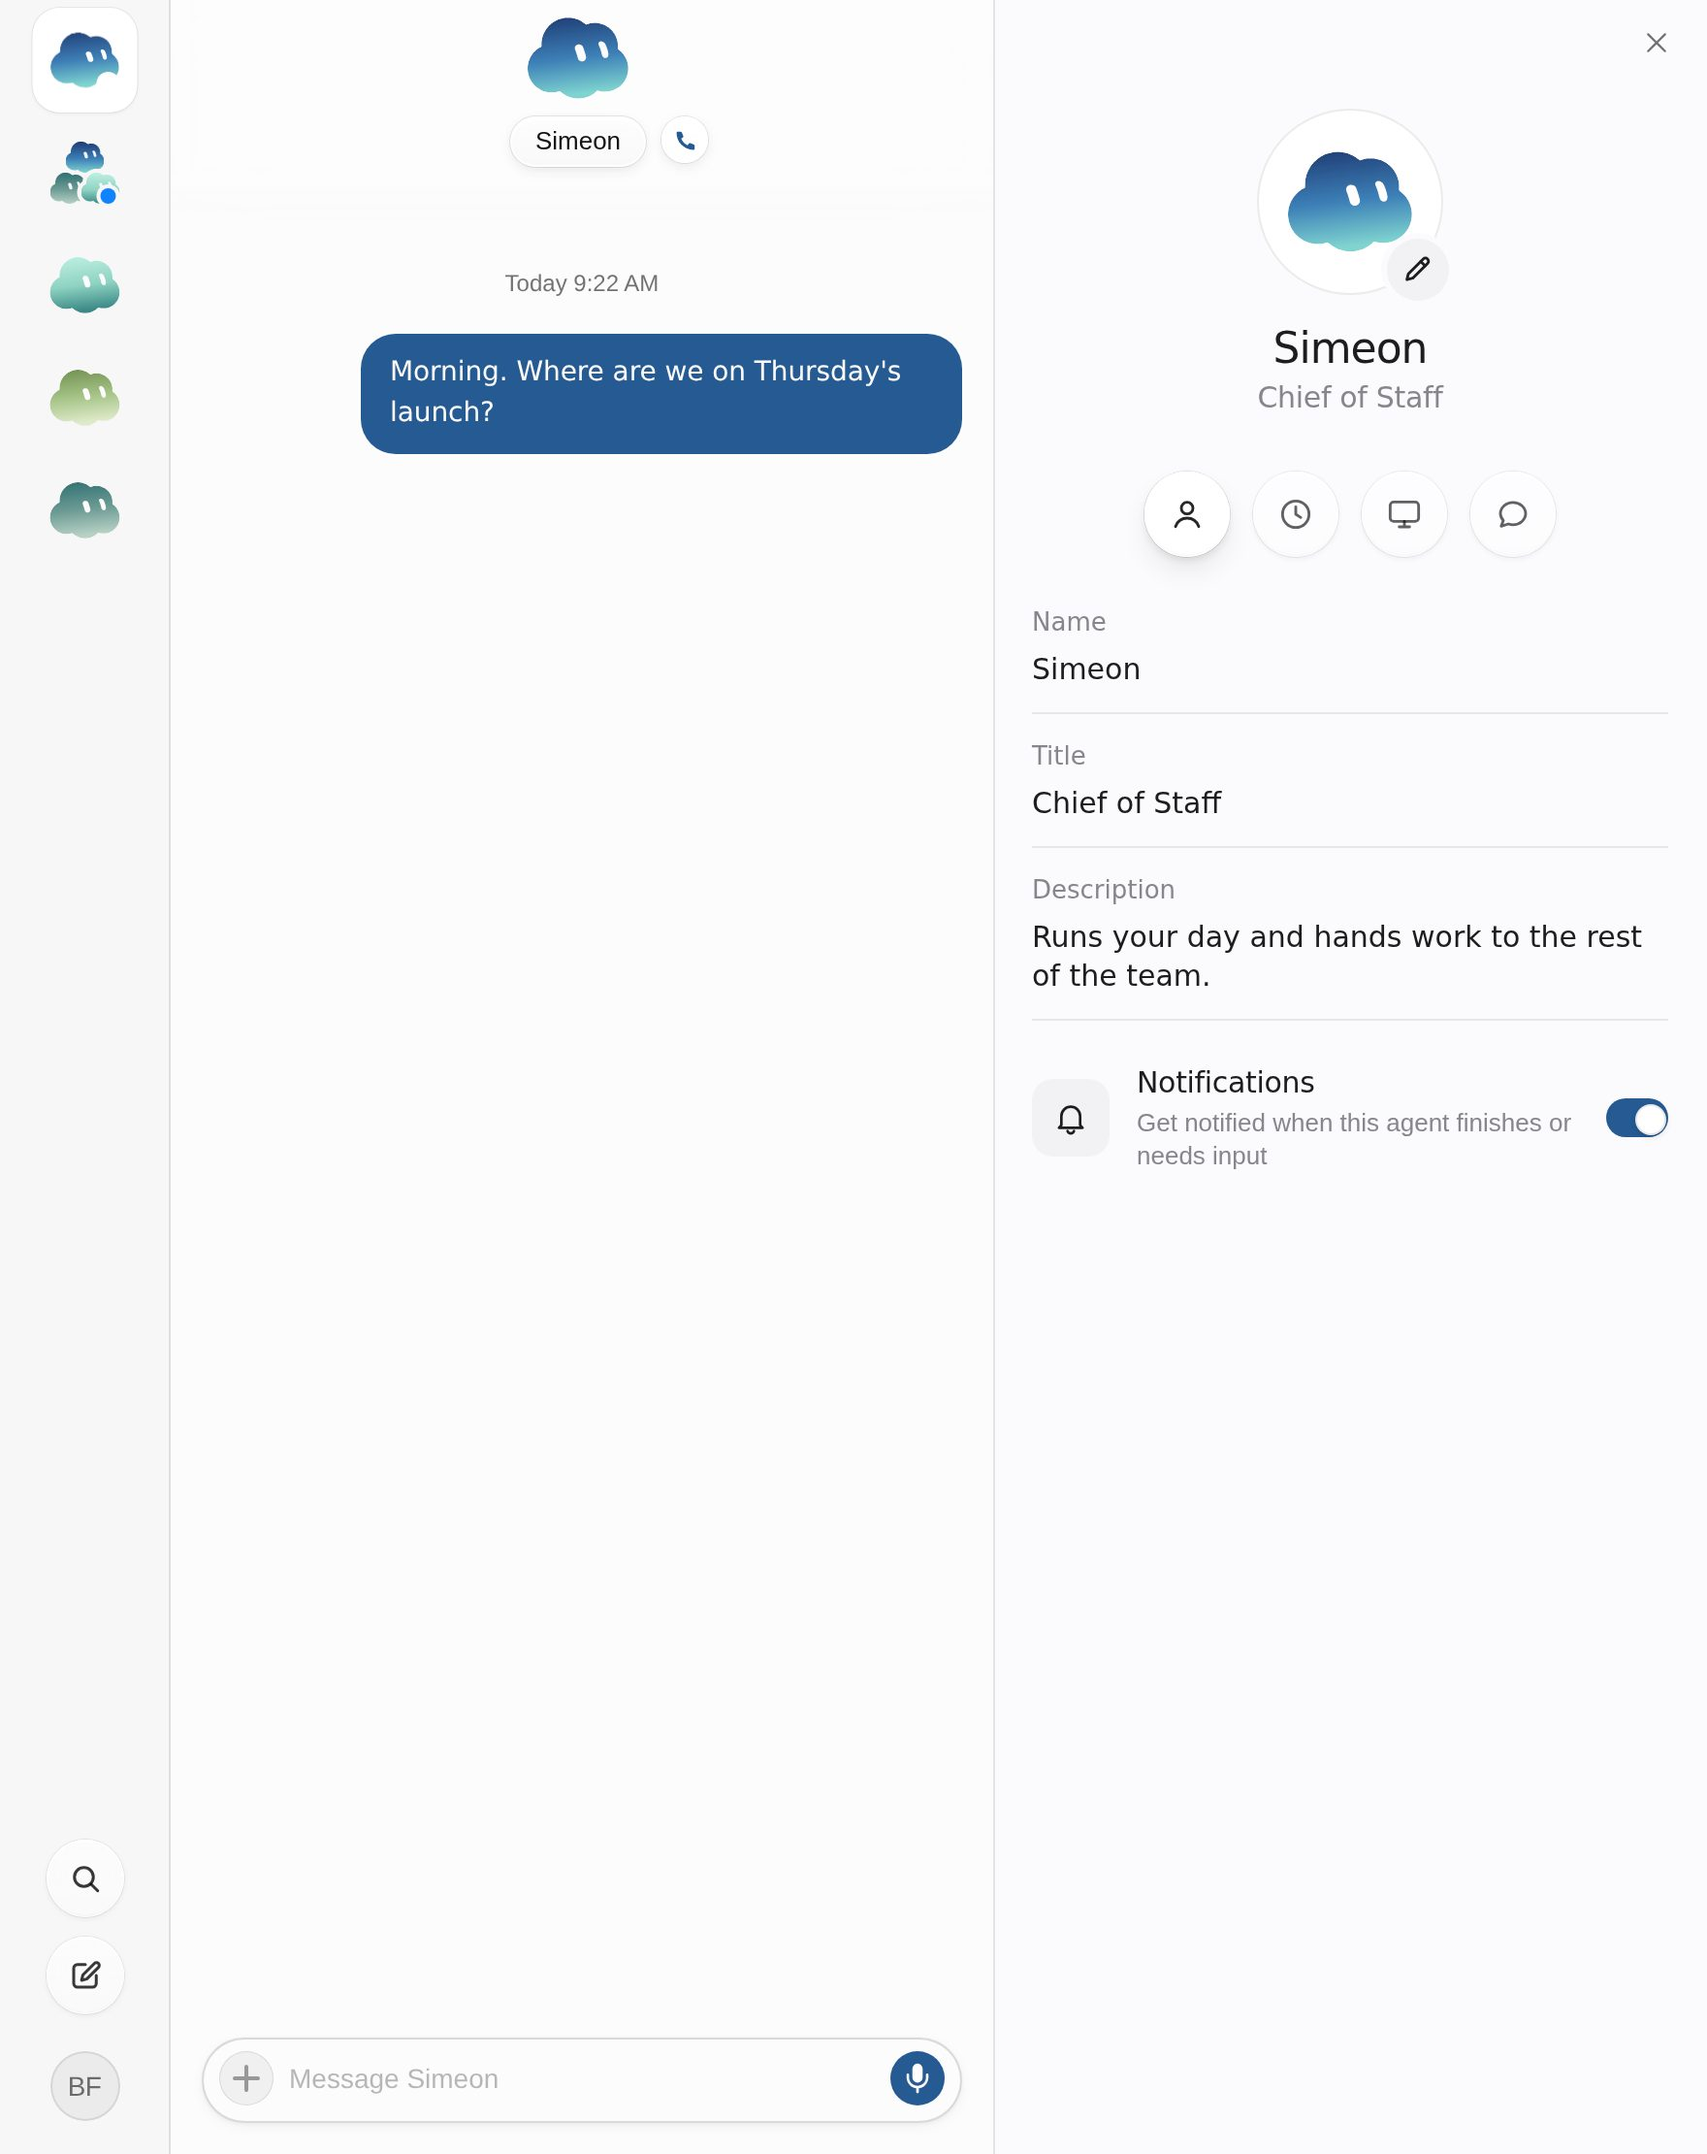
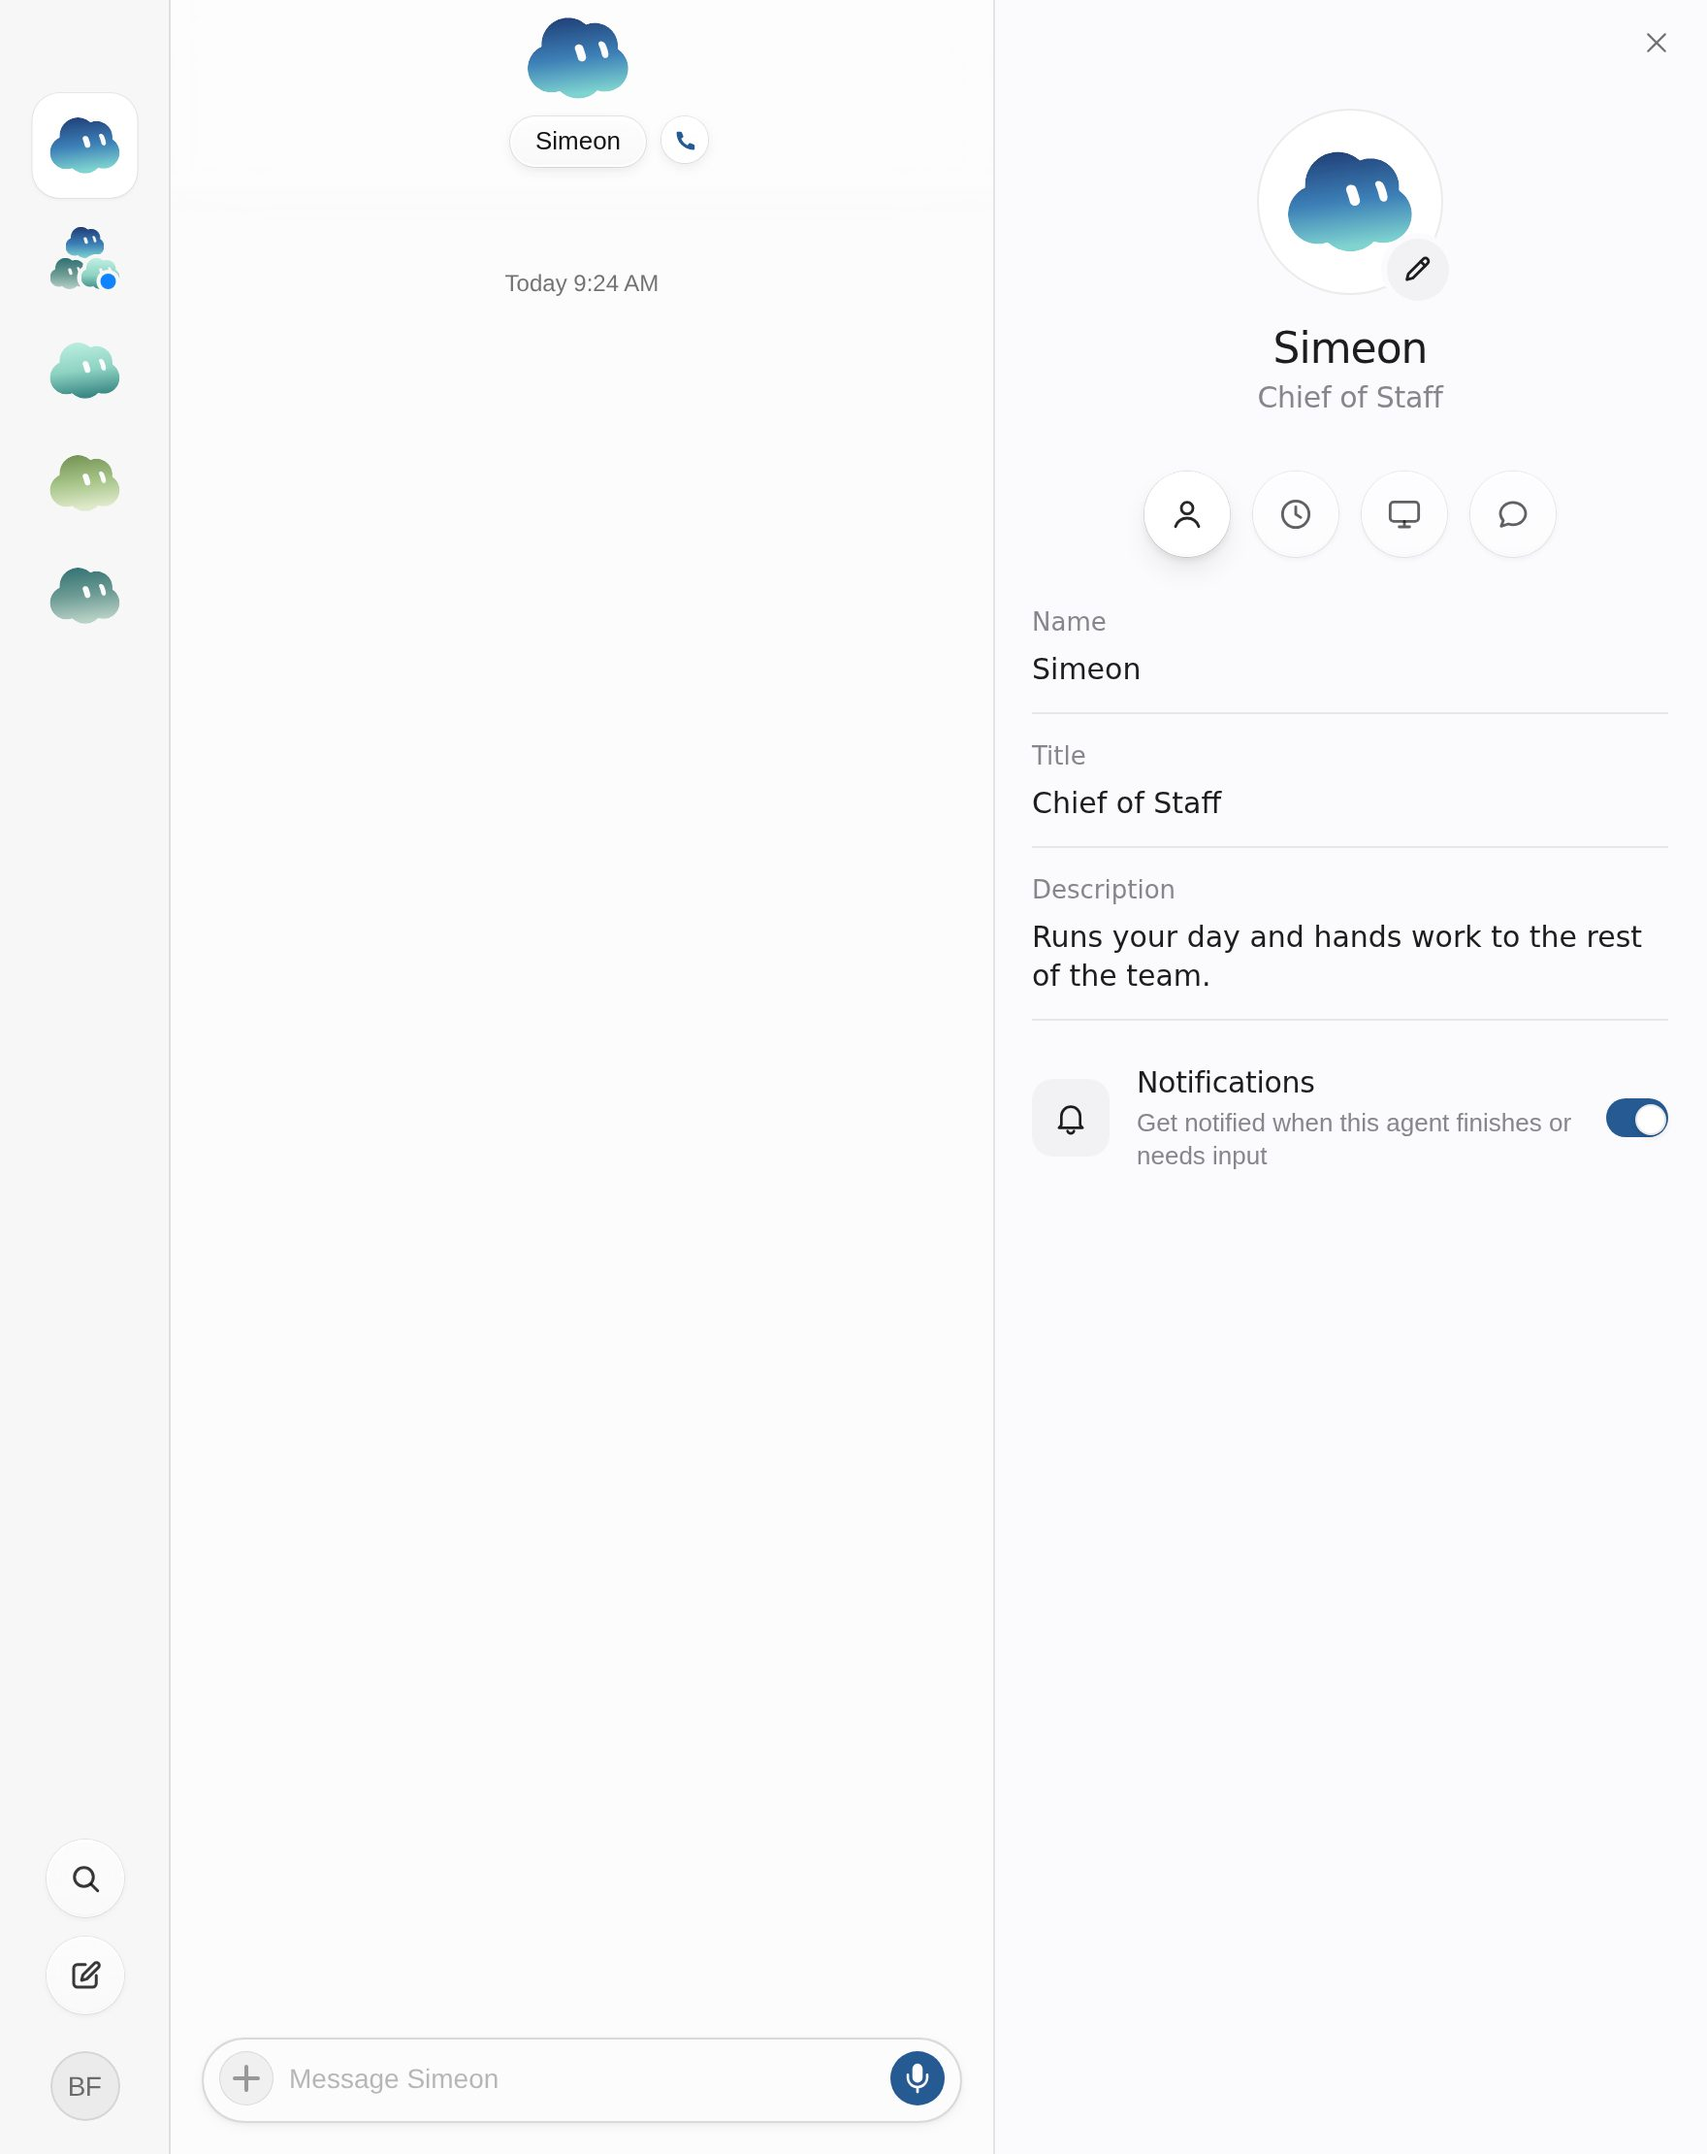
Site demo: with the pane open, the rail keeps its spacer under the traffic lights
Moving the rail's header to the foot had taken away the 44px it left
clear at the top, so the first avatar sat under the window's traffic
lights. The spacer is back; the hero posters are regenerated.

Claude-Session: https://claude.ai/code/session_01YVdXyUP5gsDTr44eH5Vte9

Changed region(s): [[0.1875, 0.1554, 0.5625, 0.2176], [0.0312, 0.0, 0.0938, 0.3108]]

diff --git a/sites/simeonlabs.com/public/app/c240c441e36a/demo-glass.css b/sites/simeonlabs.com/public/app/c240c441e36a/demo-glass.css
@@ -41,3 +41,5 @@ html body .sand-shell:has(.sand-info-pane[data-open="true"]) .sand-agents-sideba
 html body .sand-shell:has(.sand-info-pane[data-open="true"]) .sand-agents-sidebar__new-actions{flex-direction:column!important;gap:10px!important;margin:0 auto!important}
 /* The rail renders a second "New chat" plus of its own; the compose disc already is that button. */
 html body .sand-agents-sidebar__rail-new{display:none!important}
+/* The rail's header was its 44px spacer under the traffic lights; with the header at the foot, the spacer stays. */
+html body .sand-shell:has(.sand-info-pane[data-open="true"]) .sand-agents-sidebar::before{content:""!important;display:block!important;flex:none!important;order:0!important;height:44px!important}

diff --git a/sites/simeonlabs.com/source/demo-glass.css b/sites/simeonlabs.com/source/demo-glass.css
@@ -41,3 +41,5 @@ html body .sand-shell:has(.sand-info-pane[data-open="true"]) .sand-agents-sideba
 html body .sand-shell:has(.sand-info-pane[data-open="true"]) .sand-agents-sidebar__new-actions{flex-direction:column!important;gap:10px!important;margin:0 auto!important}
 /* The rail renders a second "New chat" plus of its own; the compose disc already is that button. */
 html body .sand-agents-sidebar__rail-new{display:none!important}
+/* The rail's header was its 44px spacer under the traffic lights; with the header at the foot, the spacer stays. */
+html body .sand-shell:has(.sand-info-pane[data-open="true"]) .sand-agents-sidebar::before{content:""!important;display:block!important;flex:none!important;order:0!important;height:44px!important}
